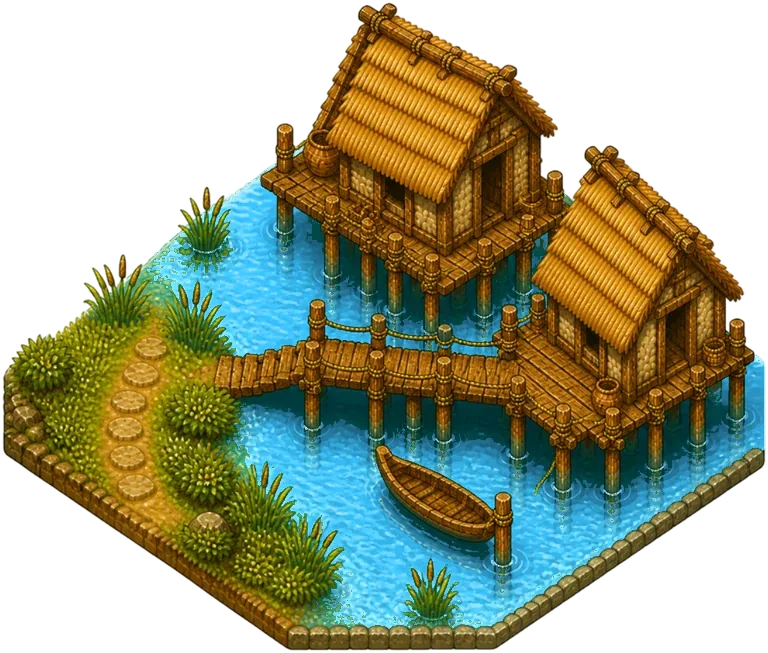
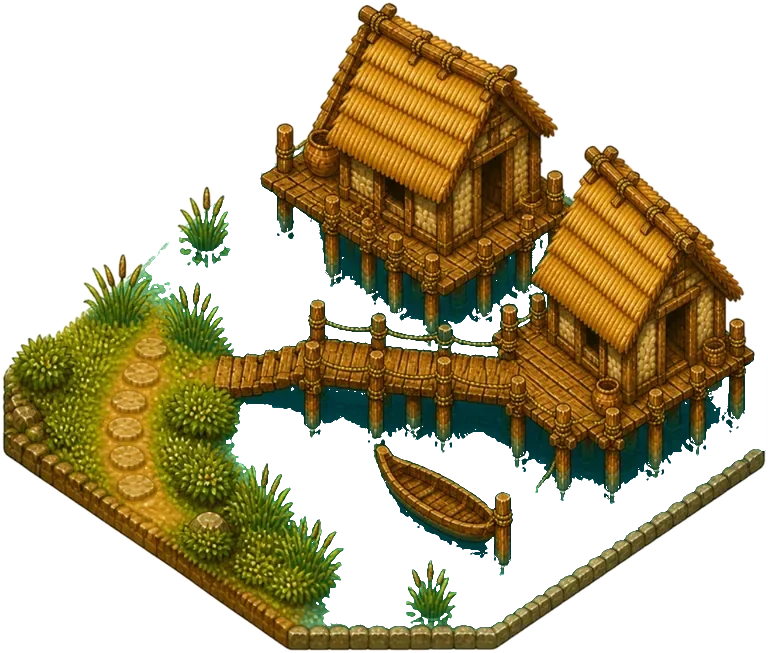
Epochia 144: Pfahlbau auch im Sommerbild und in der gedrehten Ansicht ohne gemaltes Wasser
Claude-Session: https://claude.ai/code/session_01W1n1hdvEnuKJoocRNGs93d

Changed region(s): [[0.2812, 0.5513, 1.0, 0.9801], [0.1875, 0.2757, 0.7188, 0.5513]]

diff --git a/neu/index.html b/neu/index.html
@@ -3,7 +3,7 @@
 <head>
   <meta charset="UTF-8">
   <meta name="viewport" content="width=device-width, initial-scale=1, maximum-scale=1, user-scalable=no, viewport-fit=cover">
-  <meta name="app-version" content="143">
+  <meta name="app-version" content="144">
   <meta name="theme-color" content="#3d7a2a">
   <meta name="color-scheme" content="only light">
   <meta name="apple-mobile-web-app-capable" content="yes">

diff --git a/neu/js/daten.js b/neu/js/daten.js
@@ -2,7 +2,7 @@
 // Epochia – alle Spieldaten (Zahlen zum Feinjustieren stehen hier oben, die Logik liest nur daraus).
 // Pläne: docs/konzept-neu.md und docs/epoche-1-steinzeit.md
 
-const APP_VERSION = 143;
+const APP_VERSION = 144;
 
 const CONFIG = {
   mapSize: 512,           // Felder je Seite, zentral änderbar (Vielfaches von 16; 64 bis Version 21, 128 bis Version 54 – alte Karten liegen in der Mitte)

diff --git a/neu/service-worker.js b/neu/service-worker.js
@@ -1,6 +1,6 @@
 // Epochia – offline spielen. Bei Änderungen die Versionsnummer erhöhen (gleiche Nummer wie
 // APP_VERSION in js/daten.js und <meta name="app-version"> in index.html).
-const CACHE = 'v143';
+const CACHE = 'v144';
 const ASSETS = [
   './',
   'index.html',
